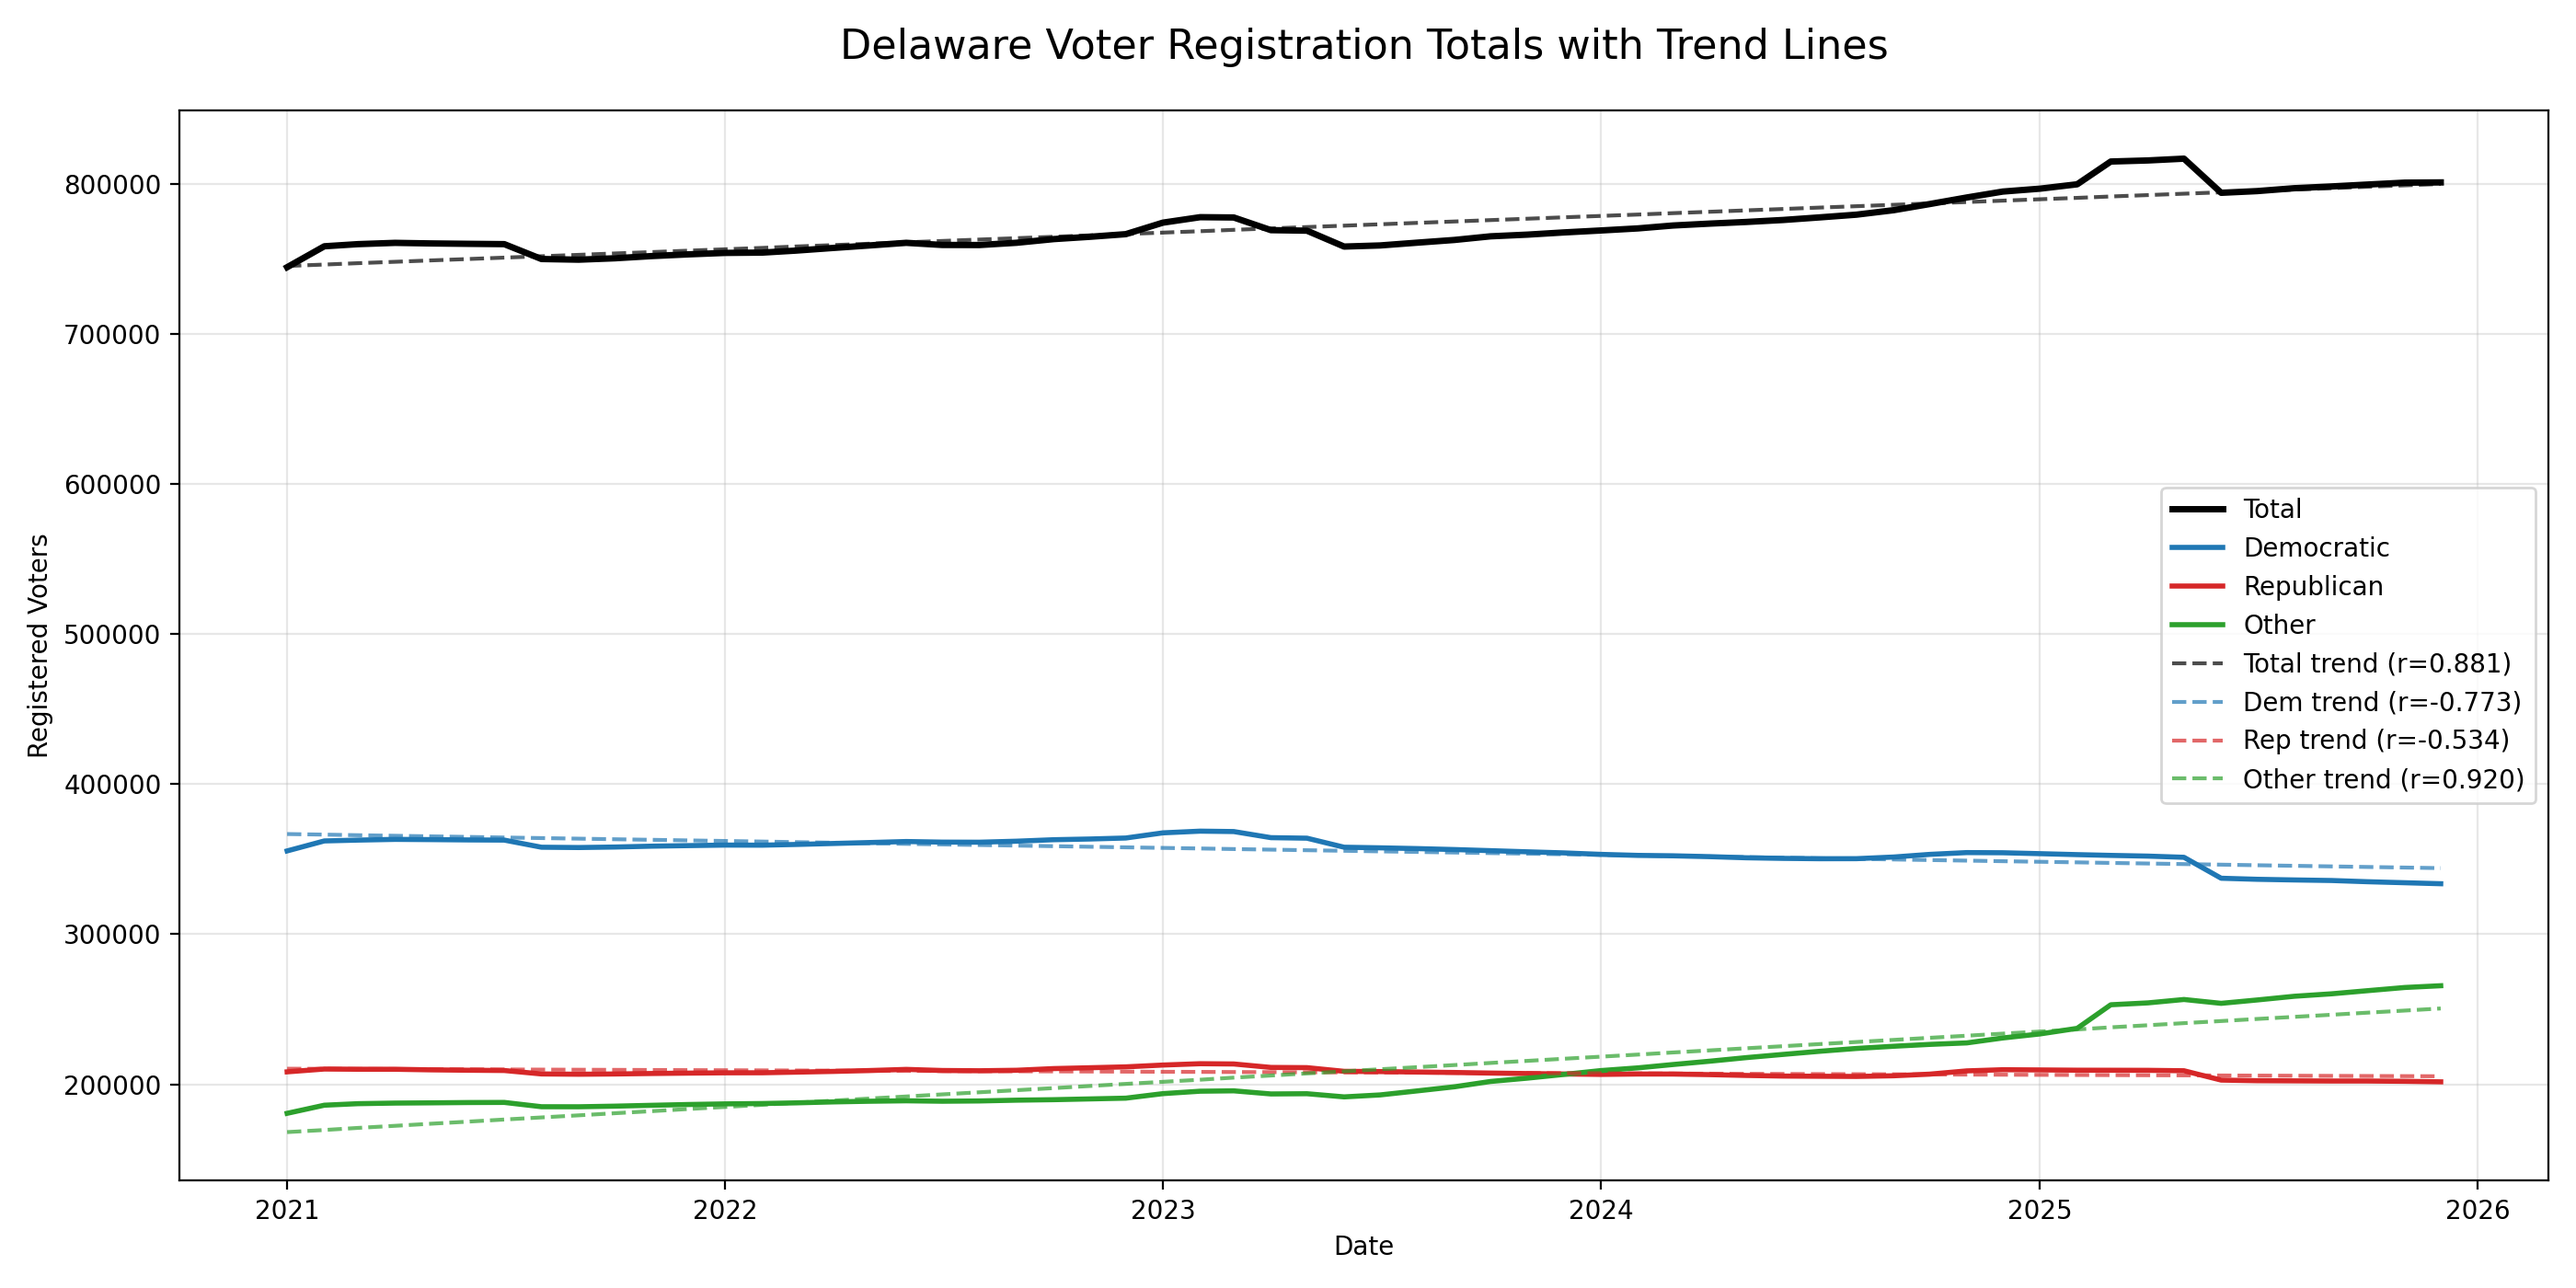
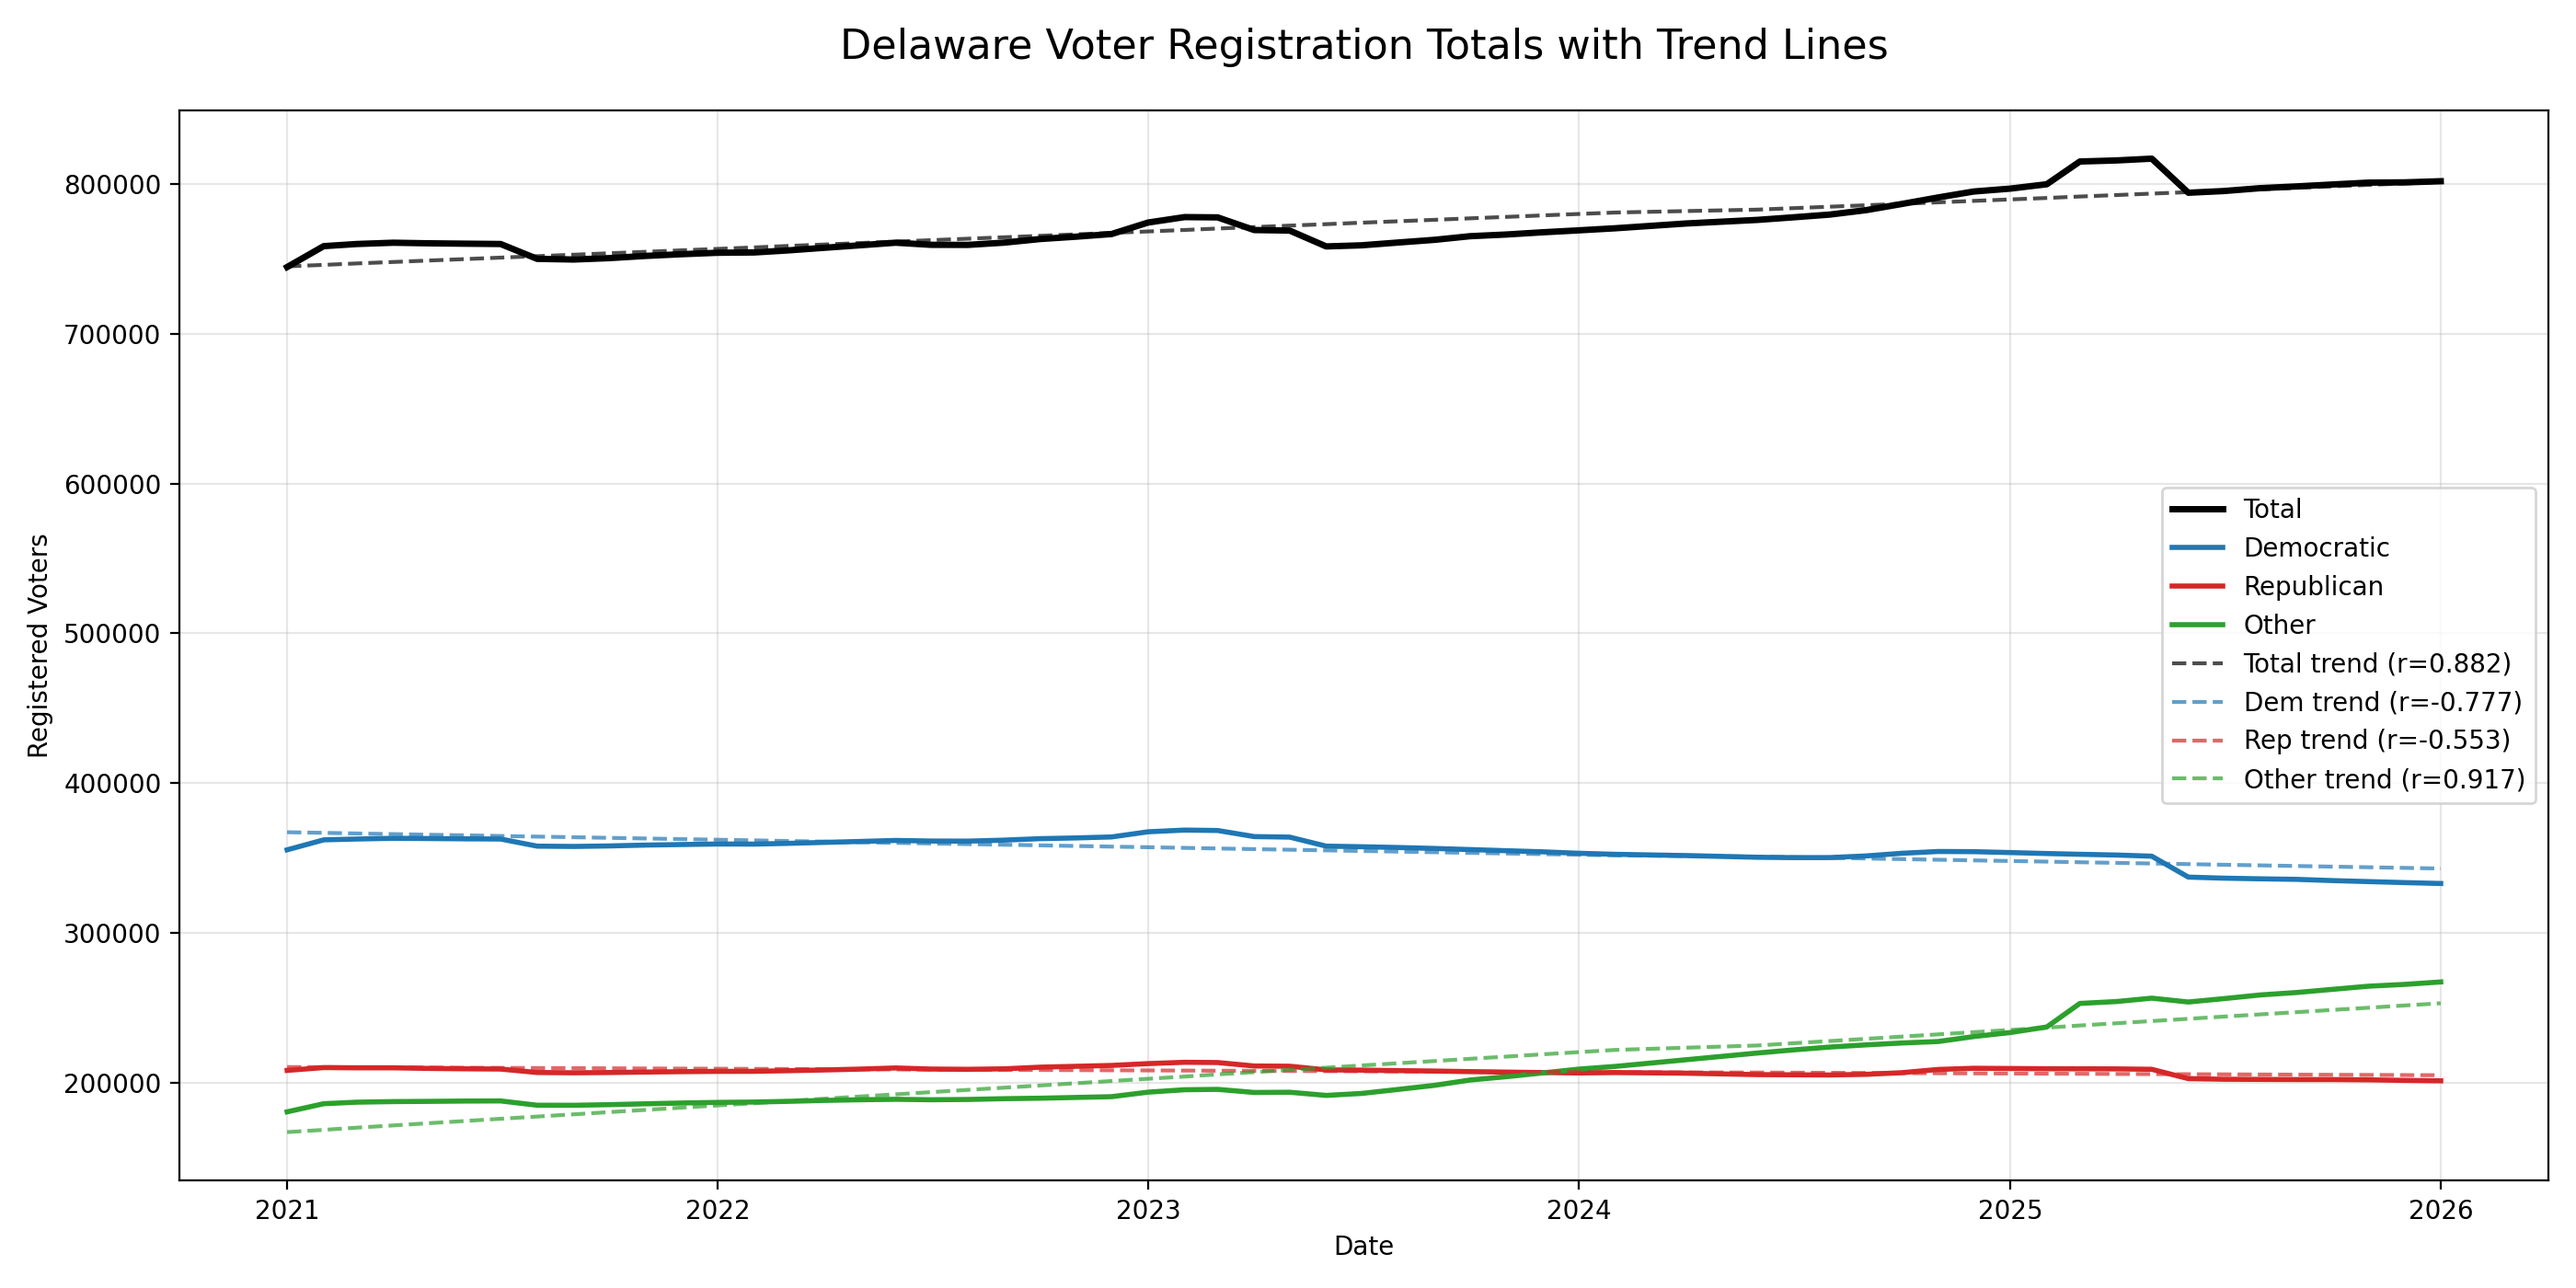
added January 1, 2026

diff --git a/vrt.py b/vrt.py
@@ -215,7 +215,8 @@ def main() -> None:
             [(2022, m, 1) for m in range(1, 10)] + [(2022, 10, 2), (2022, 11, 1), (2022, 12, 1)] +
             [(2023, m, 1) for m in range(1, 13)] +
             [(2024, m, 1) for m in range(1, 13)] +
-            [(2025, m, 1) for m in range(1, 13)]
+            [(2025, m, 1) for m in range(1, 13)] +
+            [(2026, m, 1) for m in range(1, 13)]
         )
 
         today = datetime.now()

diff --git a/vrt.md b/vrt.md
@@ -38,9 +38,7 @@
 |2023-12-01 | 354,210 | 206,885 | 206,570 | 767,665|
 |2024-01-01 | 353,229 | 206,596 | 209,153 | 768,978|
 |2024-02-01 | 352,542 | 206,859 | 210,962 | 770,363|
-|2024-03-01 | 352,272 | 206,839 | 213,173 | 772,284|
 |2024-04-01 | 351,700 | 206,438 | 215,417 | 773,555|
-|2024-05-01 | 350,955 | 205,909 | 217,772 | 774,636|
 |2024-06-01 | 350,551 | 205,492 | 219,930 | 775,973|
 |2024-07-01 | 350,328 | 205,368 | 221,980 | 777,676|
 |2024-08-01 | 350,359 | 205,252 | 223,898 | 779,509|
@@ -60,3 +58,4 @@
 |2025-10-01 | 334,999 | 202,188 | 262,394 | 799,581|
 |2025-11-01 | 334,324 | 202,007 | 264,516 | 800,847|
 |2025-12-01 | 333,659 | 201,648 | 265,694 | 801,001|
+|2026-01-01 | 333,059 | 201,358 | 267,345 | 801,762|
